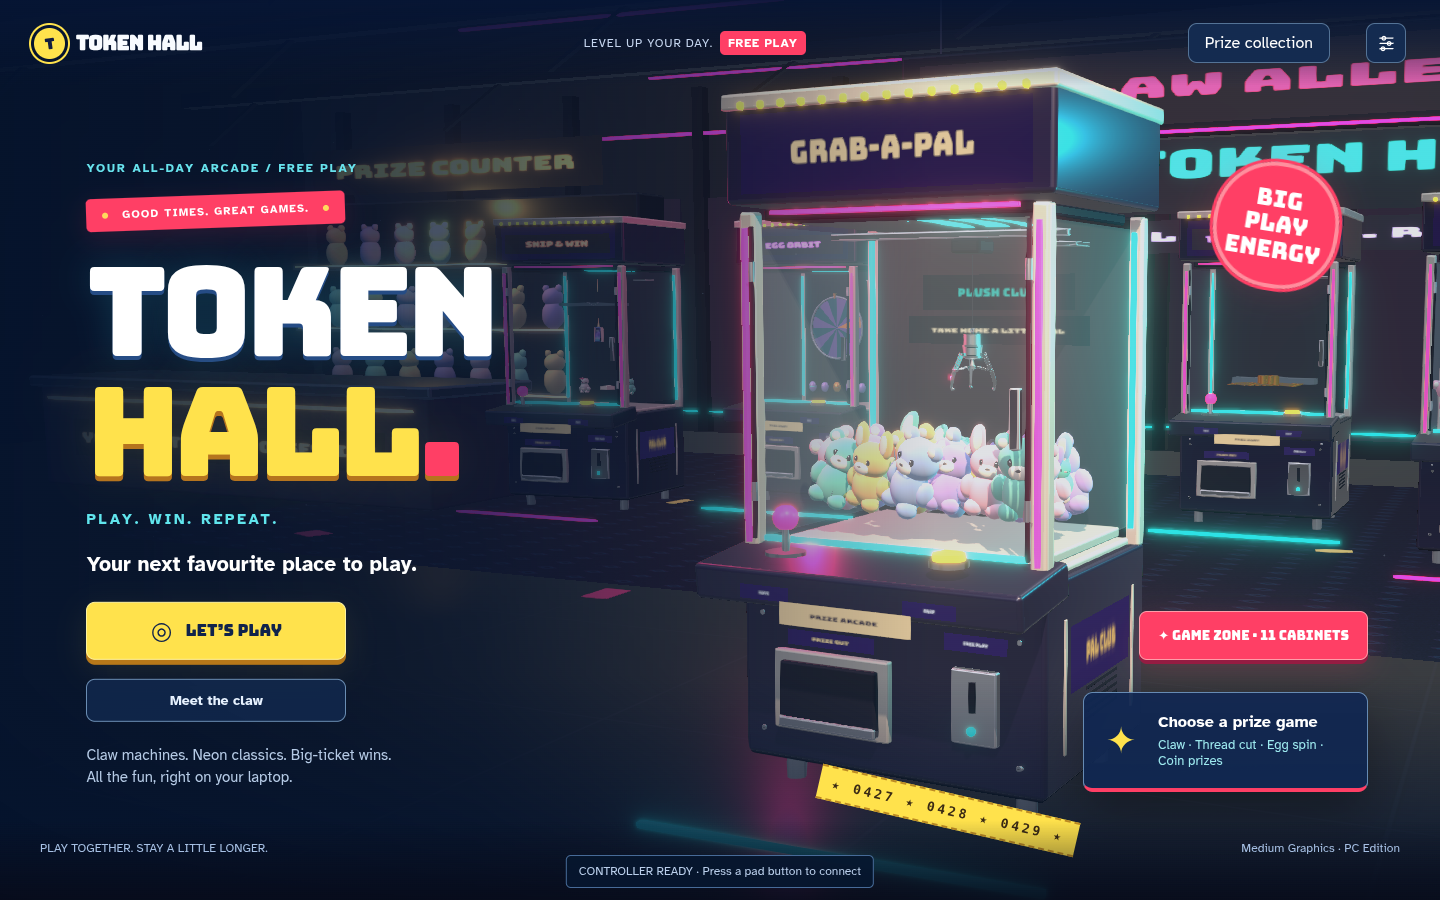
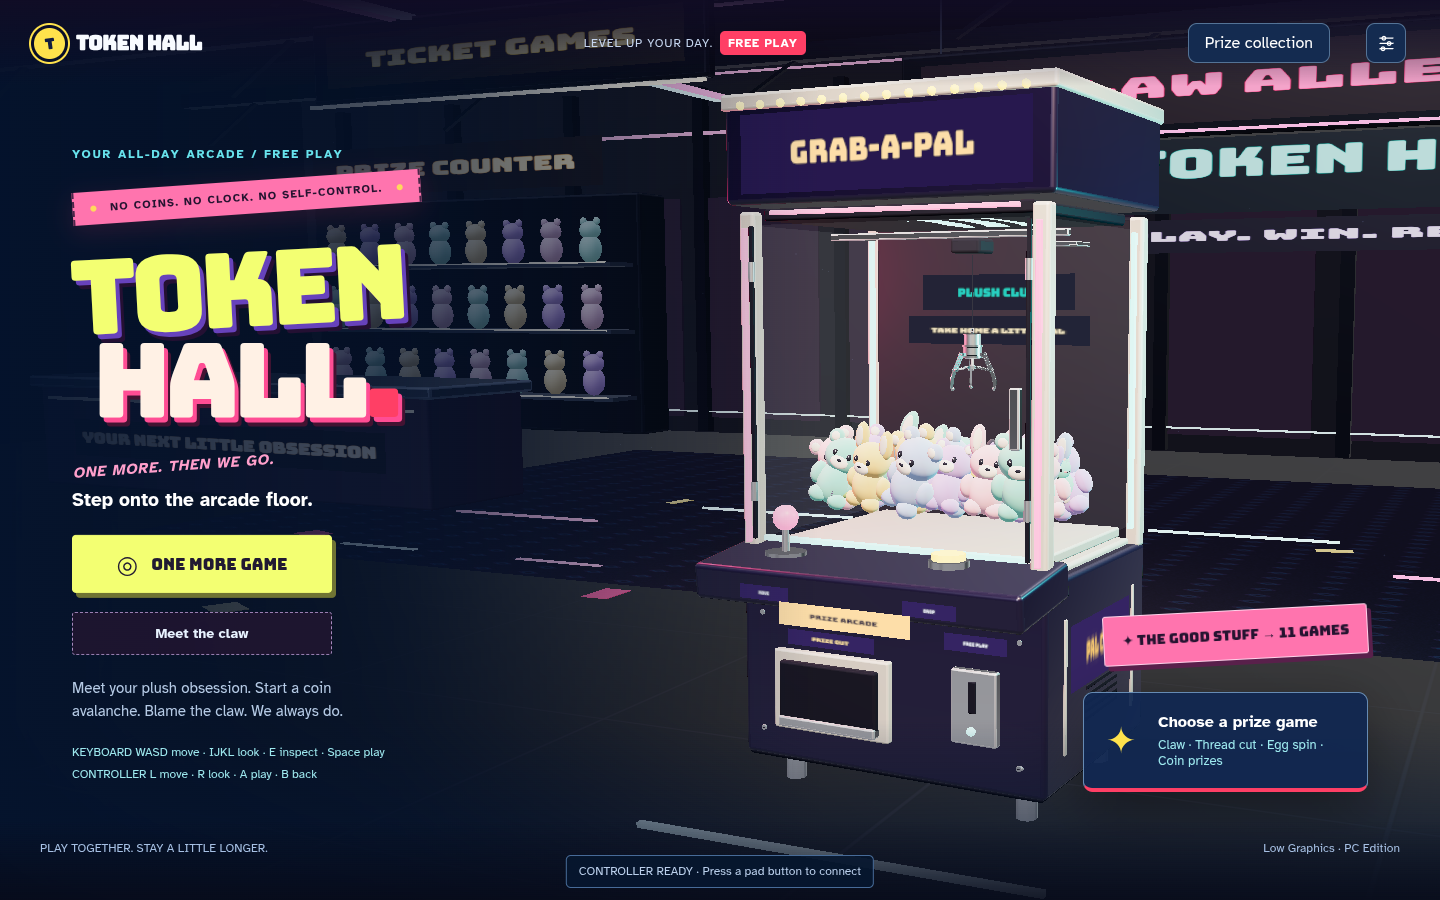
Give Token Hall illustrated cabinets and a distinctive arcade voice

diff --git a/src/arcade-club.css b/src/arcade-club.css
@@ -537,3 +537,36 @@ footer {
 .walk-hints::after{content:'Keyboard-only look: I / J / K / L';display:block;color:#8de8ee;font-size:12px;margin-top:6px}
 @media(max-height:800px) and (min-width:900px){.machine-panel{max-height:calc(100vh - 120px);overflow-y:auto;width:260px;right:22px;top:78px;padding:18px}.machine-heading{left:24px;top:95px;max-width:220px}.machine-heading h1{font-size:25px}.machine-panel .machine-readout{margin:12px 0}.machine-panel .machine-score{font-size:11px}.title-screen .phase-note{font-size:13px}.title-screen .phase-note::after{margin-top:12px;font-size:11px}.title-screen .eyebrow{display:none}.midway-launch{bottom:205px}}
 @media(max-width:850px){.title-screen{width:75%;max-width:450px}.title-screen h1{font-size:4.5rem}.title-screen .phase-note::after{font-size:10px}}
+/* The hall has an owner now: maximalist marquees, cabinet silhouettes, and a carpet loud enough to hear. */
+:root{--bulb:#f3ff72;--pink:#ff4d94;--teal:#5cfff0}
+.topbar{background:linear-gradient(#110c25e8,transparent)}
+.title-screen h1{transform:rotate(-3deg);line-height:.92;letter-spacing:-.065em}
+.title-screen h1>span:first-child{color:#f3ff72;text-shadow:4px 5px #6742bc,7px 9px #241033}
+.title-screen h1>span:nth-child(2){color:#fff1e5;transform:translateX(18px) rotate(3deg);text-shadow:4px 5px #ff4d94,7px 9px #431332}
+.admission{background:#ff74ae;color:#251330;transform:rotate(-4deg);border-radius:0;border-inline:2px dashed #4a2548}
+.title-scribble{color:#ff9fcb;font-style:italic;transform:rotate(-4deg);letter-spacing:.06em}
+.primary{background:#f3ff72;box-shadow:4px 5px #707433;border-radius:4px;color:#211a32;border-color:#f3ff72}
+.primary:hover{background:#fdffb5;box-shadow:2px 3px #707433}
+.secondary{border:1px dashed #a78abf;border-radius:3px;background:#211530d9}
+.midway-launch{background:#ff74ae;color:#251330;transform:rotate(-3deg);border-radius:3px;border-color:#ffd2ea;box-shadow:4px 5px #59204b;font-size:14px}
+.reference-arcade{background-color:#0f0c24;background-image:radial-gradient(ellipse at 78% 0,#4d225b70,transparent 55%),repeating-linear-gradient(135deg,transparent 0 54px,#6b3e7f09 54px 56px);}
+.reference-arcade:has(.midway-grid)>h1{font-size:clamp(38px,5.6vw,82px);line-height:1;color:#f3ff72;text-shadow:3px 4px #653897;transform:rotate(-2deg);margin-top:32px;max-width:850px}
+.reference-arcade:has(.midway-grid)>p{font-size:19px;color:#ffd0e7;font-style:italic;margin-top:25px}
+.midway-top{color:#ffb5d5;border-bottom:1px dashed #795583}
+.midway-grid{grid-template-columns:repeat(4,minmax(0,1fr));gap:35px 20px;padding:25px 0 50px;background:radial-gradient(ellipse at 50% 90%,#78287422,transparent 70%)}
+.midway-grid>button{position:relative;background:transparent;border:0;border-radius:0;padding:0 12px 18px;box-shadow:none;gap:9px;min-height:0;isolation:isolate}
+.midway-grid>button:nth-child(3n+1){transform:rotate(-2deg)}
+.midway-grid>button:nth-child(3n+2){transform:translateY(23px) rotate(2deg)}
+.midway-grid>button:nth-child(3n){transform:rotate(-1deg)}
+.midway-grid>button:hover{transform:translateY(-6px) rotate(0);background:#ffffff04;box-shadow:none}
+.cabinet-art{height:285px;max-width:100%;border-radius:0;filter:drop-shadow(0 8px 12px #0008)}
+.midway-grid strong{font:23px Bungee;color:var(--cabinet);text-shadow:2px 3px #000;letter-spacing:-.04em}
+.midway-grid span{font:10px monospace;letter-spacing:.06em;color:#bfaacc}
+.midway-grid small{font-size:14px;color:#d1bedc;max-width:260px;line-height:1.45}
+.midway-grid b{margin-top:10px;padding:7px 12px;background:var(--cabinet);color:#20142d;transform:rotate(-2deg);box-shadow:3px 3px #0007;font:700 12px monospace}
+.midway-canvas{border-color:#51365f;box-shadow:0 0 0 2px #c9a1d2,0 0 35px #ff4d9410}
+.midway-game aside h1{color:#fff2e8;text-shadow:3px 4px #6d3568;transform:rotate(-2deg)}
+@media(max-width:1100px){.midway-grid{grid-template-columns:repeat(3,minmax(0,1fr))}.cabinet-art{height:265px}}
+@media(max-width:750px){.midway-grid{grid-template-columns:repeat(2,minmax(0,1fr));gap:28px 12px}.cabinet-art{height:230px}.midway-grid strong{font-size:18px}.reference-arcade:has(.midway-grid)>h1{font-size:43px}}
+@media(max-width:430px){.midway-grid{grid-template-columns:1fr}.cabinet-art{height:300px}.midway-grid>button{max-width:320px;margin:auto}.midway-grid small{max-width:300px}}
+@media(prefers-reduced-motion:reduce){.midway-grid>button{transition:none}.midway-grid>button:hover{transform:none}}

diff --git a/src/midway.js b/src/midway.js
@@ -32,12 +32,13 @@ function cabinetArt(id, color) {
               : id === "cut"
                 ? `<path d="M140 15v70" stroke="white" stroke-width="3"/><circle cx="140" cy="115" r="34" fill="${color}"/><circle cx="111" cy="85" r="16" fill="${color}"/><circle cx="169" cy="85" r="16" fill="${color}"/><path d="M90 50l55 20M90 72l55-20" stroke="#ffe05b" stroke-width="5"/>`
                 : `<ellipse cx="140" cy="100" rx="65" ry="22" stroke="${color}" stroke-width="9" fill="none"/><circle cx="150" cy="45" r="13" fill="#ffe05b"/><path d="M45 145h190" stroke="#fff4" stroke-width="5"/>`;
-  return `<svg class="cabinet-art" viewBox="0 0 280 170" aria-hidden="true"><defs><radialGradient id="glow-${id}"><stop stop-color="${color}" stop-opacity=".28"/><stop offset="1" stop-color="#071333"/></radialGradient></defs><rect width="280" height="170" rx="12" fill="url(#glow-${id})"/>${shape}</svg>`;
+  const title=CABINETS.find(c=>c.id===id).name.toUpperCase();
+  return `<svg class="cabinet-art" viewBox="0 0 280 355" aria-hidden="true"><defs><linearGradient id="body-${id}" x2="1" y2="1"><stop stop-color="#433457"/><stop offset="1" stop-color="#141123"/></linearGradient><radialGradient id="glow-${id}"><stop stop-color="${color}" stop-opacity=".4"/><stop offset="1" stop-color="#0b101e"/></radialGradient></defs><ellipse cx="142" cy="335" rx="112" ry="12" fill="${color}" opacity=".15"/><path d="M35 24L226 12L249 35V300L220 330H42L25 306V60Z" fill="#090b15" stroke="#6c5b85" stroke-width="2"/><path d="M226 12L249 35V300L220 330V42Z" fill="${color}" opacity=".3"/><path d="M35 24H225V252H38Z" fill="url(#body-${id})" stroke="${color}" stroke-width="3"/><rect x="40" y="30" width="180" height="42" rx="3" fill="${color}"/><text x="130" y="56" fill="#171222" text-anchor="middle" font-family="Bungee" font-size="${title.length>13?12:15}">${title}</text><rect x="43" y="80" width="174" height="148" rx="12" fill="url(#glow-${id})" stroke="#86739b" stroke-width="3"/><g transform="translate(46 95) scale(.6)">${shape}</g><path d="M38 235H220L235 268H27Z" fill="#342b46" stroke="${color}" stroke-width="2"/><ellipse cx="77" cy="254" rx="17" ry="6" fill="#11101b"/><path d="M77 252V237" stroke="#c2bed1" stroke-width="5"/><circle cx="77" cy="235" r="10" fill="${color}"/><ellipse cx="167" cy="253" rx="10" ry="6" fill="#ff5c92"/><ellipse cx="195" cy="249" rx="10" ry="6" fill="#ffe96a"/><path d="M40 272H220V326H40Z" fill="url(#body-${id})"/><rect x="119" y="281" width="41" height="24" rx="3" fill="#090d1a" stroke="#796b88"/><path d="M131 289h17" stroke="${color}" stroke-width="3"/><text x="130" y="319" text-anchor="middle" fill="#b5a5ca" font-family="monospace" font-size="8">TOKEN HALL • FREE PLAY</text><path d="M47 329v8h21v-8M194 329v8h21v-8" stroke="#06070e" stroke-width="8"/></svg>`;
 }
 export function installMidway(store) {
   const launch = document.createElement("button");
   launch.className = "midway-launch";
-  launch.textContent = "✦ GAME ZONE · 11 CABINETS";
+  launch.textContent = "✦ THE GOOD STUFF → 11 GAMES";
   document.body.append(launch);
   let overlay,
     raf,
@@ -120,7 +121,7 @@ export function installMidway(store) {
   function menu() {
     game = null;
     overlay.innerHTML =
-      '<div class="midway-top"><span>TOKEN HALL / GAME ZONE</span><button data-close>Back to the hall · B / Esc</button></div><h1>PICK YOUR<br>NEXT HIGH SCORE.</h1><p>Big lights. Big wins. Eleven ways to play. No coins needed.</p><div class="midway-grid"></div>';
+      '<div class="midway-top"><span>TOKEN HALL / GAME ZONE</span><button data-close>Back to the hall · B / Esc</button></div><h1>YOU SAID<br>“LAST GAME.”</h1><p>That was three games ago. Pick a machine. We’re not judging.</p><div class="midway-grid"></div>';
     overlay.querySelector("[data-close]").onclick = close;
     const grid = overlay.querySelector(".midway-grid");
     for (const [i, c] of CABINETS.entries()) {

diff --git a/src/app.js b/src/app.js
@@ -1425,7 +1425,7 @@ function X({ getScene: n }) {
               class: "admission",
               children: [
                 e("span", { class: "ticket-hole" }),
-                e("span", { children: "GOOD TIMES. GREAT GAMES." }),
+                e("span", { children: "NO COINS. NO CLOCK. NO SELF-CONTROL." }),
                 e("span", { class: "ticket-hole" }),
               ],
             }),
@@ -1443,7 +1443,7 @@ function X({ getScene: n }) {
             e("div", { class: "title-rule" }),
             e("span", {
               class: "title-scribble",
-              children: "PLAY. WIN. REPEAT.",
+              children: "ONE MORE. THEN WE GO.",
             }),
             e("p", {
               class: "location",
@@ -1456,7 +1456,7 @@ function X({ getScene: n }) {
               onClick: () => n()?.enterHall(),
               children: [
                 e("span", { class: "button-token", children: "◎" }),
-                i.ready ? "LET’S PLAY" : "Opening the hall…",
+                i.ready ? "ONE MORE GAME" : "Opening the hall…",
               ],
             }),
             e("button", {
@@ -1469,7 +1469,7 @@ function X({ getScene: n }) {
             e("p", {
               class: "phase-note",
               children:
-                "Claw machines. Neon classics. Big-ticket wins. All the fun, right on your laptop.",
+                "Meet your plush obsession. Start a coin avalanche. Blame the claw. We always do.",
             }),
           ],
         }),

diff --git a/index.html b/index.html
@@ -11,7 +11,7 @@
       name="description"
       content="No quarters. No curfew. A crooked neon arcade full of physics claws, coin avalanches, surprise eggs and collectible prizes. Bring a controller."
     />
-    <title>Token Hall — Play. Win. Repeat.</title>
+    <title>Token Hall — Just One More</title>
     <link rel="icon" href="/src/token.svg" type="image/svg+xml" />
     <link
       rel="preload"

diff --git a/README.md b/README.md
@@ -1,4 +1,4 @@
-# TOKEN HALL — Play. Win. Repeat.
+# TOKEN HALL — Just One More
 
 A laptop-friendly arcade with bright cabinet marquees, electric blue lighting, ticket games, physics claws, and original arcade classics.
 
@@ -116,7 +116,7 @@ The Midway uses fixed 240 Hz simulation steps, bounded catch-up, physical peg/ri
 
 ## Arcade Club visual refresh and laptop classics
 
-The current design uses a consistent red/yellow/cyan palette, blue cabinet-glass surfaces, Bungee display typography, and locally hosted Atkinson Hyperlegible for controls and instructions. The game catalog includes lightweight vector cabinet previews. Timezone-style family arcades were the requested direction; direct access to Timezone’s official website was denied by the environment network policy, so this is an independent interpretation, not a researched reproduction or branded clone.
+The current design uses acid yellow, hot pink and neon cyan, dark plum cabinet-glass surfaces, Bungee display typography, and locally hosted Atkinson Hyperlegible for controls and instructions. The game catalog includes original vector cabinets with marquees, screens, joysticks, buttons and coin slots. Timezone-style family arcades were the requested direction; direct access to Timezone’s official website was denied by the environment network policy, so this is an independent interpretation, not a researched reproduction or branded clone.
 
 Three original games lead the Game Zone: **Neon Rally** (paddle rally against a tracking rival), **Brick Blitz** (40 destructible bricks and three lives), and **Stack Attack** (twelve precisely overlapping floors). All run locally with Canvas 2D, fixed-step physics, keyboard/controller controls and existing ticket saves. Rally and brick-breaker rounds time out after 90 seconds of active ball play; waiting to serve does not consume the match timer. The Game Zone now contains eleven cabinets in addition to the original 3D arcade.
 
